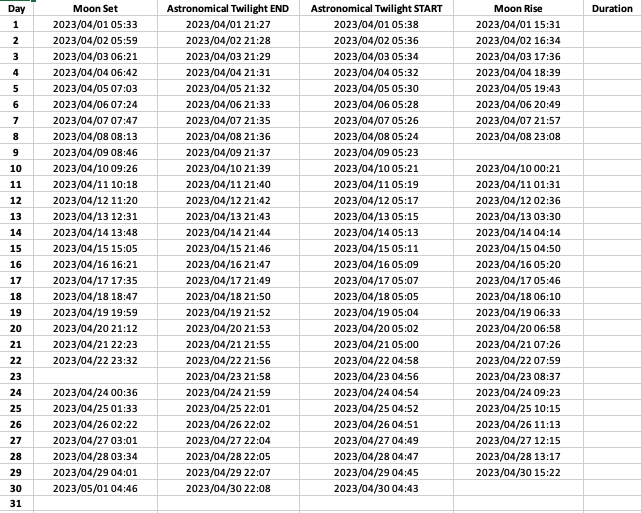
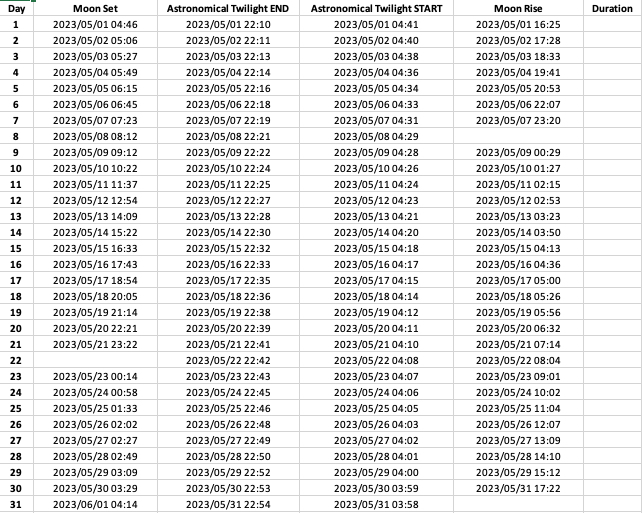
Changed screen shots to same month

diff --git a/main.py b/main.py
@@ -23,8 +23,8 @@ end_date = parser.parse(input("Enter the end date (YYYY/MM/DD): "))
 """
 lat = '40.7720'
 lon = '-112.1012'
-start_date = parser.parse('2023/04/01')
-end_date = parser.parse('2023/05/01')
+start_date = parser.parse('2023/05/01')
+end_date = parser.parse('2023/06/01')
 
 obs.lat = lat
 obs.lon = lon
